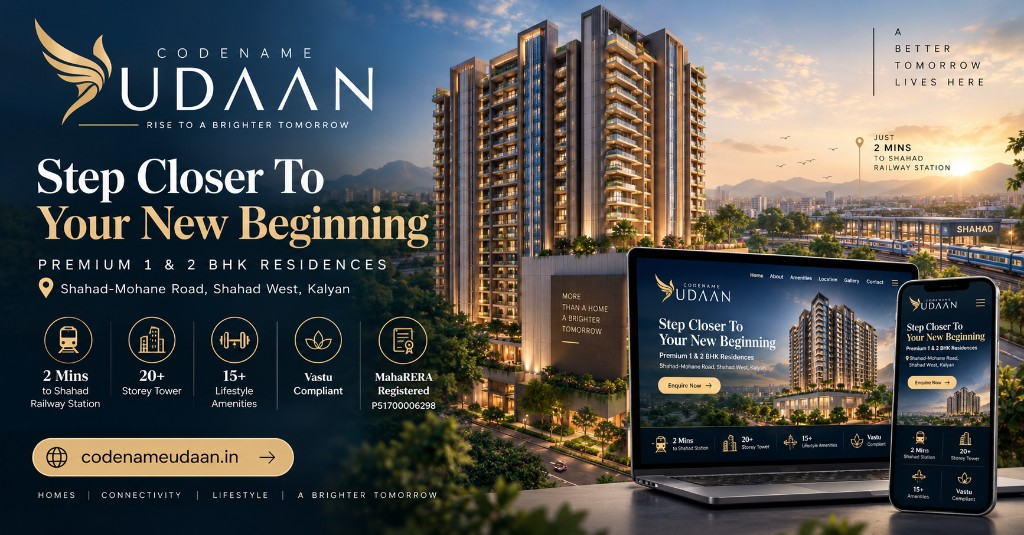
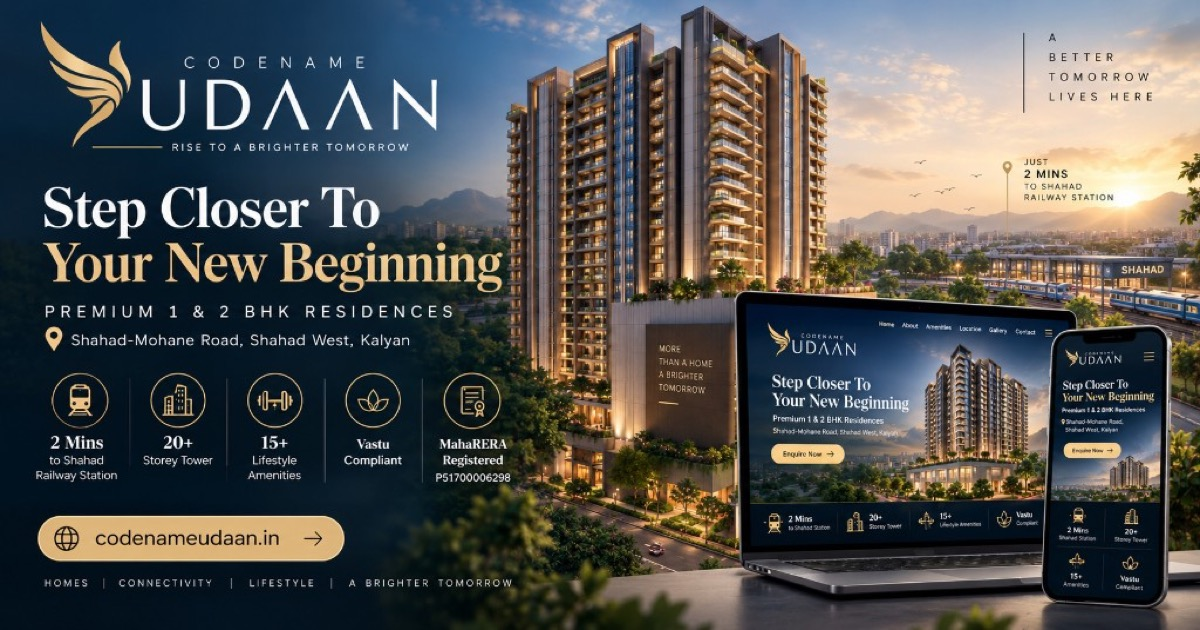
Tune Open Graph title, description, and 1200x630 cover image.
Address OpenGraph.xyz warnings for length and image dimensions on social previews.

diff --git a/index.html b/index.html
@@ -6,9 +6,9 @@
   <meta http-equiv="X-UA-Compatible" content="ie=edge" />
 
   <!-- Primary SEO Meta Tags -->
-  <title>Codename Udaan Shahad | Luxury 1 &amp; 2 BHK Flats in Shahad West, Kalyan</title>
-  <meta name="title" content="Codename Udaan Shahad | Luxury 1 &amp; 2 BHK Flats in Shahad West, Kalyan" />
-  <meta name="description" content="Codename Udaan is a MahaRERA-registered high-rise on Shahad-Mohane Road offering premium 1 &amp; 2 BHK residences with sundeck patios, 15+ amenities, and 2-minute access to Shahad Station. Reg. No. P51700006298. Book a VIP site visit." />
+  <title>Codename Udaan | 1 &amp; 2 BHK Flats in Shahad, Kalyan</title>
+  <meta name="title" content="Codename Udaan | 1 &amp; 2 BHK Flats in Shahad, Kalyan" />
+  <meta name="description" content="Premium 1 &amp; 2 BHK residences on Shahad-Mohane Road, 2 mins from Shahad Station. 15+ amenities. MahaRERA P51700006298. Book a VIP site visit." />
   <meta name="keywords" content="Codename Udaan, Codename Udaan Shahad, 1 BHK Shahad, 2 BHK Shahad West, flats in Shahad Kalyan, apartments Shahad West, luxury flats Kalyan, real estate Kalyan Thane, MahaRERA P51700006298" />
   <meta name="author" content="Codename Udaan Sales Desk" />
   <meta name="publisher" content="Codename Udaan" />
@@ -35,13 +35,13 @@
   <!-- Open Graph / Facebook / WhatsApp -->
   <meta property="og:type" content="website" />
   <meta property="og:url" content="https://codenameudaan.in/" />
-  <meta property="og:title" content="Codename Udaan | Premium 1 &amp; 2 BHK Residences in Shahad West, Kalyan" />
-  <meta property="og:description" content="Step closer to your new beginning. Premium 1 &amp; 2 BHK residences on Shahad-Mohane Road — just 2 mins to Shahad Railway Station. 20+ storey tower, 15+ amenities, Vastu compliant. MahaRERA P51700006298." />
+  <meta property="og:title" content="Codename Udaan | Premium 1 &amp; 2 BHK in Shahad, Kalyan" />
+  <meta property="og:description" content="Step closer to your new beginning. Premium homes 2 mins from Shahad Station. 15+ amenities. MahaRERA P51700006298." />
   <meta property="og:image" content="https://codenameudaan.in/assets/images/og-cover.jpg" />
   <meta property="og:image:secure_url" content="https://codenameudaan.in/assets/images/og-cover.jpg" />
   <meta property="og:image:type" content="image/jpeg" />
-  <meta property="og:image:width" content="1024" />
-  <meta property="og:image:height" content="535" />
+  <meta property="og:image:width" content="1200" />
+  <meta property="og:image:height" content="630" />
   <meta property="og:image:alt" content="Codename Udaan — Premium 1 &amp; 2 BHK residences in Shahad West, Kalyan. Rise to a brighter tomorrow." />
   <meta property="og:site_name" content="Codename Udaan" />
   <meta property="og:locale" content="en_IN" />
@@ -49,7 +49,7 @@
   <!-- Twitter / X -->
   <meta name="twitter:card" content="summary_large_image" />
   <meta name="twitter:url" content="https://codenameudaan.in/" />
-  <meta name="twitter:title" content="Codename Udaan | Premium 1 &amp; 2 BHK Residences in Shahad West, Kalyan" />
+  <meta name="twitter:title" content="Codename Udaan | Premium 1 &amp; 2 BHK in Shahad, Kalyan" />
   <meta name="twitter:description" content="Step closer to your new beginning. Premium homes 2 mins from Shahad Station. 15+ amenities. MahaRERA P51700006298." />
   <meta name="twitter:image" content="https://codenameudaan.in/assets/images/og-cover.jpg" />
   <meta name="twitter:image:alt" content="Codename Udaan promotional cover — premium residences in Shahad West, Kalyan" />
